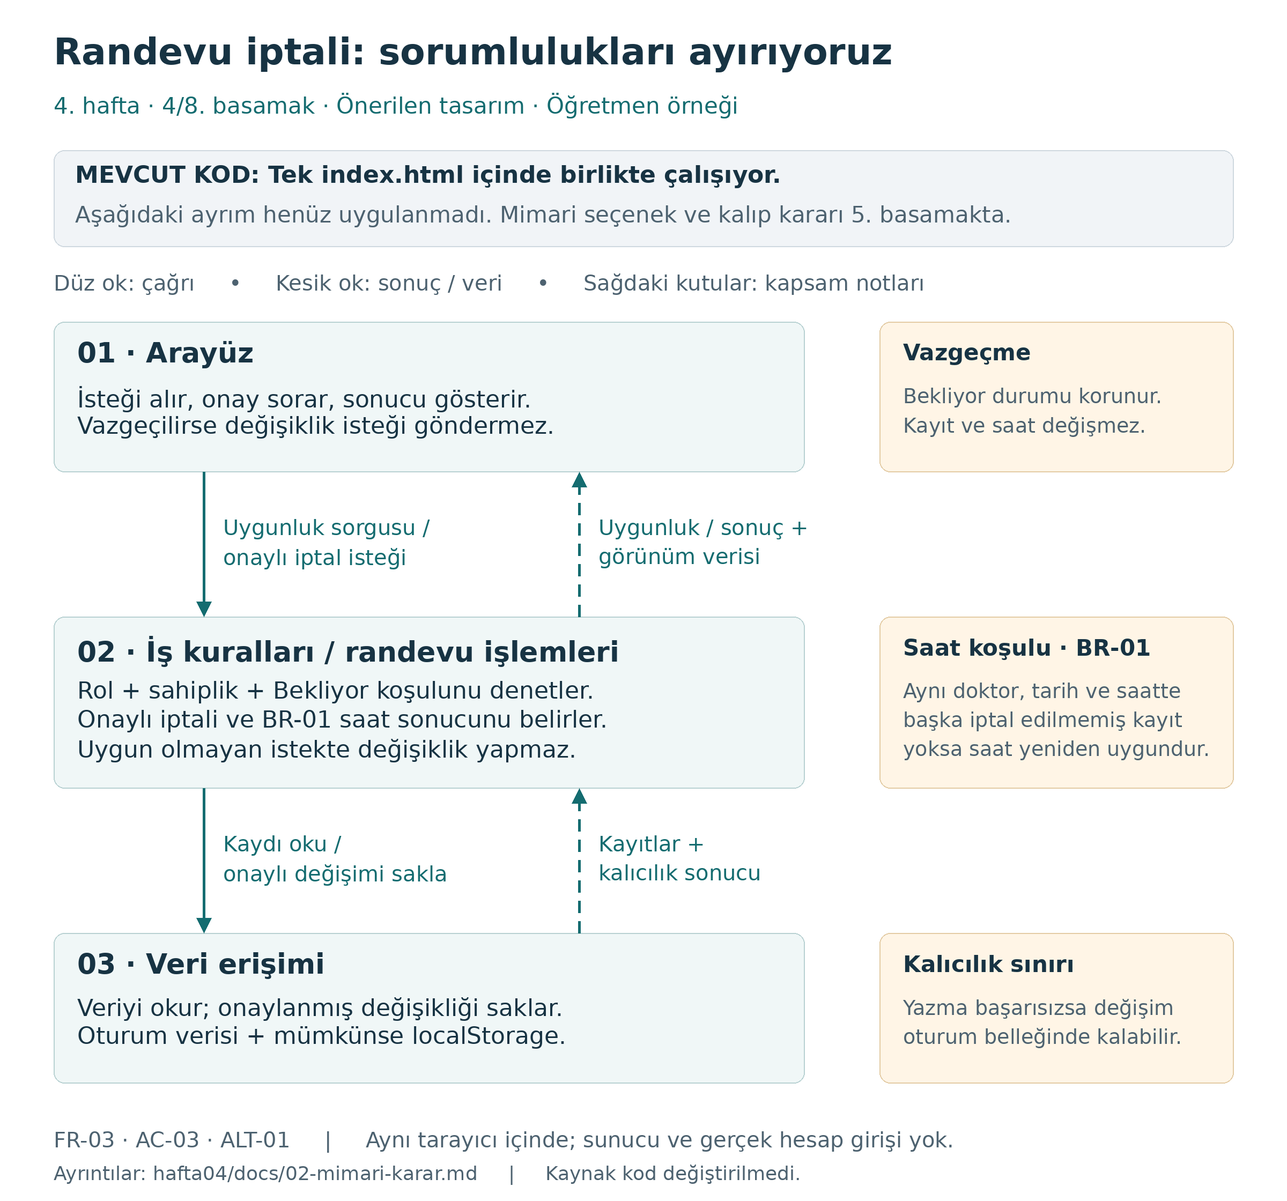
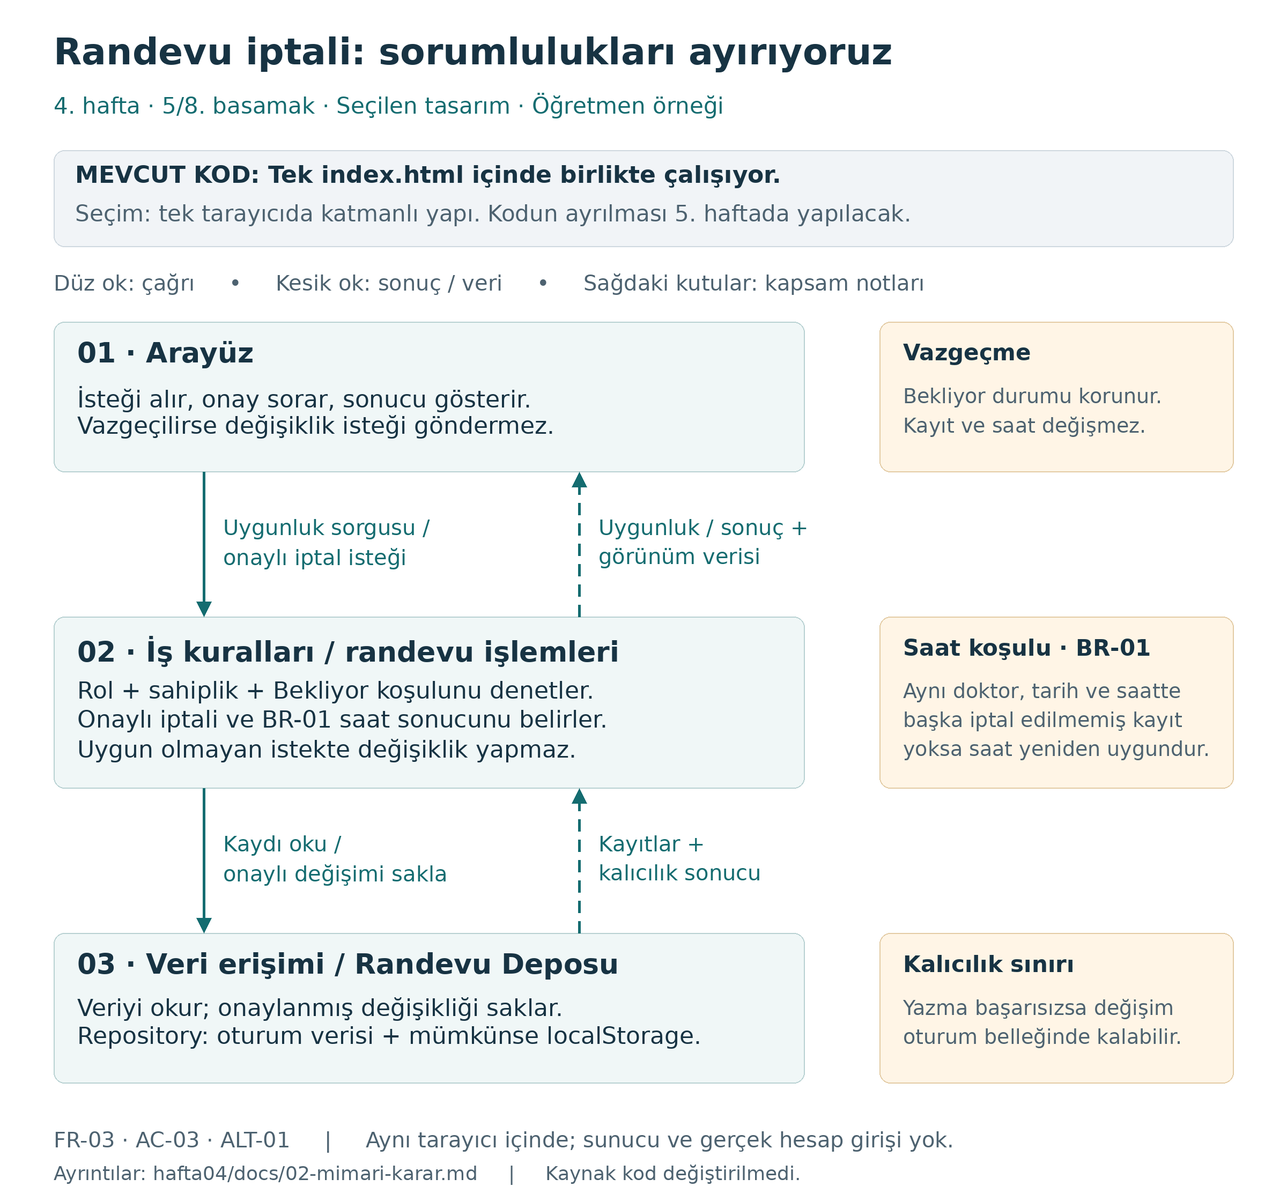
docs: choose H4 layered design and scoped appointment repository

diff --git a/hafta04/docs/02-mimari-karar.md b/hafta04/docs/02-mimari-karar.md
@@ -2,9 +2,9 @@
 
 Tarih: 1 Kasım 2026
 
-Durum: Dördüncü basamağın senaryo ve sorumluluk ayrımı öğretmen örneği olarak hazır.
-Beşinci basamağın mimari karşılaştırması ve tasarım kalıbı kararı henüz yapılmadı.
-Bağımsız ekip incelemesi bekliyor.
+Durum: Dördüncü ve beşinci basamakların öğretmen örneği hazır.
+Seçim: Tek tarayıcıda katmanlı/modüler yapı ve sınırlı bir Randevu Deposu
+(Repository) uyarlaması. Kodda uygulama ve bağımsız ekip incelemesi bekliyor.
 
 İncelenen uygulama: Üçüncü hafta sonu `index.html`,
 `da3ce51798344a6fafaee89cce42aa9aba90de17` commit'i.
@@ -35,11 +35,11 @@ içindedir. `cancelAppointment` kaydı bulur, `canCancel` ile koşulu denetler,
 son olarak `notify` ile mesaj verir. `saveData` da `renderStorage` çağırarak ekrana
 ulaşır. Dolayısıyla bugün üç bağımsız bileşen oluşturulmuş değildir.
 
-**Öneri:** Aynı tarayıcı uygulamasında üç sorumluluğun sınırını belirliyoruz.
+**Seçilen tasarım:** Aynı tarayıcı uygulamasında üç sorumluluğun sınırını belirliyoruz.
 Arayüz kullanıcıyla konuşacak; iş kuralları işlemin uygunluğunu ve sonucunu
 belirleyecek; veri erişimi okuma ve saklamayı yürütecek. Okların gösterdiği çağrı
-ve sonuçlar henüz uygulanmış bir API değildir. Mimari seçeneği beşinci basamakta,
-koda aktarımı beşinci haftada ele alacağız.
+ve sonuçlar henüz uygulanmış bir API değildir. Beşinci basamakta bu yapıyı
+seçtik; gerekçesi aşağıdadır. Koda aktarım beşinci haftanın çalışmasıdır.
 
 ## Sorumlulukların ayrılması
 
@@ -63,12 +63,13 @@ doğrulaması veya sunucu tarafında erişim güvenliği sağlamaz.
 | `validateData` | Veri erişiminde okuma kontrolü ve iş kuralları | Bugünkü işlev hem veri biçimini hem iptal edilmemiş çakışan kayıtları kontrol ediyor. Biçim kontrolü veri erişiminde; BR-01 denetimi ortak iş kuralında kalmalı. |
 
 İş kuralları için veri erişiminden gelen kayıt üzerinde değişiklik hazırlamak,
-reddedilen bir istekte paylaşılan kaydı yanlışlıkla değiştirmemelidir. Veri biçimi,
-işlev adları ve modül dosyaları bu çizimde kesinleştirilmedi.
+reddedilen bir istekte paylaşılan kaydı yanlışlıkla değiştirmemelidir. Beşinci
+basamakta seçilen erişim sözleşmesi aşağıda açıklanır; kesin dosya adları ve
+yükleme düzeni uygulama aşamasında belirlenecektir.
 
 ## Bileşen diyagramı ve okların anlamı
 
-![Önerilen sorumluluk ayrımı — randevu iptali](../diagrams/01-bilesen.png)
+![Seçilen tasarım — randevu iptalinde sorumluluk ayrımı](../diagrams/01-bilesen.png)
 
 [Düzenlenebilir çizim](../diagrams/01-bilesen.drawio) ·
 [Düzenleme ve kontrol notu](../diagrams/README.md)
@@ -117,25 +118,141 @@ Bu basamakta başarı mesajı veya uygulama kodu değiştirilmedi.
 
 ## İki mimari seçeneğin karşılaştırılması
 
-**Beşinci basamakta doldurulacak.** Aşağıdaki seçenekler henüz değerlendirilmedi.
+**Seçenek A — Mevcut tek dosya ve ortak durumla devam:** `index.html` içindeki
+`data`/`state` ve mevcut işlev bağlantıları korunur; yeni işler aynı düzene eklenir.
+Bu seçeneğin avantajı, küçük prototipi açmanın ve bütün kodu birlikte görmenin
+kolay olmasıdır. Her tek dosyalı programın kötü tasarlandığını söylemiyoruz;
+burada karşılaştırdığımız, bizim mevcut kodumuzdaki bağlantılardır.
 
-| Ölçüt | Seçenek A: [Adı] | Seçenek B: [Adı] |
+**Seçenek B — Katmanlı/modüler tek tarayıcı uygulaması:** Arayüz, randevu
+işlemleri/kuralları ve veri erişimi belirli işlevler üzerinden haberleşir.
+Katmanlar mantıksal sorumluluklardır; üçünün ayrı makinede çalışması gerekmez.
+Bu seçim aynı tarayıcıda çalışacak bir yapıdır. [K1, K3]
+
+| Ölçüt | Seçenek A: Mevcut düzen | Seçenek B: Sorumlulukları ayrılmış düzen |
 |---|---|---|
-| Sorumlulukların açıklığı | [Doldurulacak] | [Doldurulacak] |
-| Bir değişikliğin etkilediği yerler | [Doldurulacak] | [Doldurulacak] |
-| Test edilebilirlik | [Doldurulacak] | [Doldurulacak] |
-| Ek kod ve kavram yükü | [Doldurulacak] | [Doldurulacak] |
-| Mevcut küçük projeye uygunluk | [Doldurulacak] | [Doldurulacak] |
+| Sorumlulukların açıklığı | `cancelAppointment` onay, kural, durum değişimi, kaydetme ve gösterimi birlikte yürütüyor. | Onay/gösterim arayüzde; karar randevu işlemlerinde; saklama veri erişiminde. |
+| İptal açıklaması değişirse | `cancelAppointment` ve görünüm kodundaki metinler incelenir; bu sırada iş akışıyla aynı bölümde çalışılır. | Metin değişikliği arayüzde ele alınır; mevcut işlem sonuçlarının anlamı korunur. |
+| İptal koşulu değişirse | `canCancel` ve onu kullanan görünüm/işlem akışı birlikte kontrol edilir. | Koşul randevu işlemlerinde tek yerde değiştirilir; arayüz aynı uygunluk sonucunu kullanır. Kabul koşulları ve testler yine güncellenir. |
+| Kaydetme biçimi değişirse | `saveData`, paylaşılan `data` ve `renderStorage` bağlantısı birlikte incelenir. | Aynı erişim sözleşmesi korunabiliyorsa değişim veri erişiminde tutulabilir. Sözleşme değişirse diğer bileşenler de etkilenebilir. |
+| Test edilebilirlik | Dışarıya açılmamış işlevleri, ortak durumu ve ekran çağrılarını ayırmak ek düzenleme gerektiriyor. | Randevu işlemleri, örnek kayıt döndüren bir depo ile DOM ve localStorage olmadan sınanabilir. Tarayıcıdaki bütün akış ayrıca kontrol edilir. |
+| Ek kod ve kavram yükü | Yeni bir bağlantı düzeni gerektirmez; başlangıçta daha az hazırlık vardır. | Sözleşme, bileşenleri bağlayan başlangıç kodu ve veri kopyalama kuralları gerekir. |
+| Küçük ders projesine uygunluk | Kısa tanıtım ve ilk gözlem için yeterli; sorumluluk sınırlarını uygulayarak öğrenme hedefini sınırlıyor. | Mevcut iptal senaryosuyla sınırlandığında bakım ve kontrol sorumluluklarını görünür kılıyor. |
 
-## Karar ve tasarım kalıbı
+Bu tablo, kaynak kod üzerinden yaptığımız öğretmen değerlendirmesidir. B seçeneği
+için hız, hata azalması veya süre kazancı ölçmedik. Katmanlı düşünmenin genel
+modülerlik gerekçesi K1'de; tabloya özgü sonuçlar bu proje için yorumumuzdur.
 
-- Seçtiğimiz mimari ve gerekçesi: [Doldurulacak]
-- Değerlendirdiğimiz tasarım kalıbı: [Doldurulacak]
-- Bu örnekte çözmesini beklediğimiz somut sorun: [Doldurulacak]
-- Sağlayacağı yarar: [Doldurulacak]
-- Getireceği ek karmaşıklık: [Doldurulacak]
-- Kullanma / kullanmama kararı ve gerekçesi: [Doldurulacak]
-- Beşinci haftada koda aktarılacak sınırlar: [Doldurulacak]
+## Mimari karar ve gerekçesi
+
+**H4-MK-01: Seçenek B ile devam edeceğiz.** Mevcut davranışları koruyup iptal
+akışındaki sorumlulukları ayıracağız. Üç somut gerekçemiz var:
+
+1. Üçüncü hafta onay metnini değiştirirken durum değiştiren işlevin içinde
+   çalıştık. Metin ve karar sorumluluklarını ayırmak sonraki incelemeyi kolaylaştırır.
+2. `saveData` bugün `renderStorage` çağırıyor. Kaydetme sonucunu veri olarak
+   döndürmek, saklama kodunun ekranı tanımasına duyulan ihtiyacı kaldırır.
+3. FR-03 ve BR-01 kurallarını kontrollü örneklerle sınamak istiyoruz. İş kurallarını
+   tarayıcı ekranından bağımsız çağırabilmek bu hedefe uygundur.
+
+Ödediğimiz bedel, birkaç yeni işlev sınırı ve bunları bağlayan kodun anlaşılmasıdır.
+Aynı kodu üç dosyaya bölmek tek başına yeterli olmaz: arayüz doğrudan kayıt
+değiştirmemeli, veri erişimi ekran çizmemeli, iş kuralları onay penceresi açmamalıdır.
+
+Bu kararı geçersiz kılabilecek yeni koşullar; gerçek hesap girişi, ortak sunucu
+verisi veya eşzamanlı cihaz kullanımıdır. Böyle bir ihtiyaç doğarsa mimariyi
+ve güvenlik gereksinimlerini yeniden değerlendiririz. Bugünkü ayrımı yapmak,
+bu ihtiyaçları çözmüş olmak anlamına gelmez.
+
+## Tasarım kalıbı: Repository — Randevu Deposu
+
+**Kalıbın fikri:** Uygulama, saklama ayrıntılarına doğrudan ulaşmak yerine kayıtları
+bir koleksiyon gibi sunan erişim noktasıyla çalışır. Repository, veri erişimi
+kalıbıdır. Kaynaktaki kapsamlı nesne/veritabanı eşleme yapısını bu küçük derse
+taşımıyoruz; koleksiyon benzeri erişim sınırını uyarlıyoruz. [K2]
+
+Buradaki “depo”, randevu kayıtlarını bulan ve güncelleyen yazılım bileşenidir;
+GitHub'daki proje deposuyla karıştırılmamalıdır. Diyagramdaki üçüncü kutu bu
+sorumluluğu üstlenir; dördüncü bir katman eklemiyoruz.
+
+**Çözmek istediğimiz somut sorun:** İptal işlevi bugün `data.appointments` dizisine
+doğrudan erişiyor ve `saveData` çağırıyor. Randevu işlemlerine küçük bir depo
+nesnesi vererek kayıt arama ve saklama ayrıntılarını bu nesnenin içinde tutacağız.
+Gerçek kullanımda tarayıcı deposu, kontrollü denemede aynı işlemleri sağlayan
+bellek deposu kullanılabilir. Ayrı bir kütüphane veya sınıf hiyerarşisi gerekmiyor.
+
+### İptal senaryosu için planlanan küçük sözleşme
+
+Aşağıdaki adlar tasarım örneğidir; henüz çalışan kod değildir. Sözleşme bugünkü
+tek sayfalı, eşzamanlı tarayıcı akışı içindir.
+
+| İşlem | Beklenen sonuç | Sınır |
+|---|---|---|
+| `findById(id)` | Kaydın bağımsız kopyası veya bulunamadı sonucu. | Kopyayı değiştirmek saklanan kaydı kendiliğinden değiştirmez. |
+| `list()` | Randevu kayıtlarının bağımsız kopyaları. | Hasta/rol görünürlüğünü, BR-01 saat sonucunu ve toplamları iş kuralları hesaplar. |
+| `update(appointment)` | Var olan kaydı günceller; değişimin uygulanıp uygulanmadığını ve kalıcı mı yalnız bellekte mi olduğunu döndürür. | Yeni kayıt oluşturmaz, kayıt silmez, iptal yetkisine karar vermez. Bulunmayan kimlikte değişiklik yapmaz. |
+
+Başarılı bellek güncellemesi ile kalıcı yazma ayrı sonuçlardır. Kalıcı yazma
+başarısızsa mevcut uygulamadaki gibi bellek değişimi kalabilir; arayüz bunu
+saklama durumunda gösterir. `update` sonucunu yalnız “başarılı/başarısız” diye
+tek değere indirip bu ayrımı kaybetmeyeceğiz.
+
+`localStorage` anahtarı `ygs-klinik-randevu-demo-v1`, `schema: 1`, `nextId` ve mevcut
+randevu alanları korunacak. İptal güncellemesi `nextId` üretmez veya artırmaz.
+Mevcut kayıtların yalnız uygulama dosyalarını kopyalayarak başka konuma taşınmış
+sayılmaması gerektiği [başlangıç belgesinde](00-baslangic-ve-surum.md) açıklanır.
+
+| Değerlendirme | Bu projedeki karşılığı |
+|---|---|
+| Beklenen yarar | İptal işlevi kaydın nasıl saklandığını bilmeden kayıt bulabilir ve güncelleme isteyebilir. Aynı sözleşmeye uyan deneme deposu ile kontrollü sonuç üretilebilir. |
+| Ek maliyet | Üç erişim işlemi, kopya kayıtlar, saklama sonucu ve başlangıçta bileşenleri bağlayan kod hazırlanır. İşlem adları ve sonuçları tutarlı tutulur. |
+| Risk | Aynı anda hem depo hem doğrudan `data` erişimi kullanılırsa iki ayrı yazma yolu oluşur. Kalıp adı verilmesi bu sorunu kendiliğinden çözmez. |
+| Kullanma kararı | İptal akışı için sınırlı bir Repository uyarlaması kullanılacak. Somut yarar bağımsız kural kontrolüdür; bütün proje için genel amaçlı bir depo altyapısı kurulmayacak. |
+| Yeniden değerlendirme | Sözleşme yalnız çağrı aktarıp anlamlı bir sınır sağlamıyorsa sadeleştirilecek. Uzak sunucu, asenkron işlem veya yeni veri gereksinimi gelirse sözleşme yeniden ele alınacak. |
+
+Bu yararlar tasarım beklentisidir; yeni kod ve testlerle henüz doğrulanmadı.
+Kalıp kullanmak bir amaç değildir. Bu örnekte onu, iptal kuralı ile tarayıcıda
+saklama ayrıntısı arasında somut bir sınır oluşturduğu için seçiyoruz.
+
+## Beşinci haftada koda aktarılacak sınırlar
+
+| Alan | Uygulama sınırı | Kontrol edilecek sonuç |
+|---|---|---|
+| Arayüz | Olaylar, onay metni ve ekrana çizim burada kalır; randevu işlemlerinin sonucunu kullanır. | Onay, vazgeçme, liste, saat ve kaydetme bildirimi tutarlı görünür. |
+| Randevu işlemleri | Rol, sahiplik, durum geçişi ve BR-01 burada kalır; doğrudan DOM/localStorage erişimi olmaz. | Uygun olmayan istek kayıt değiştirmez; onaylı iptal kayıt silmez. |
+| Randevu Deposu | Okuma, kopya kayıt verme, güncelleme ve kalıcılık sonucu burada kalır; ekran çağrısı olmaz. | Reddedilen istekte yazma yapılmaz; yazma hatasının bellek/kalıcılık farkı görünür olur. |
+| Başlangıç ve eski veri | Veri erişimi okunabilir veri biçimini kontrol eder. Randevu işlemleri BR-01 bütünlüğünü denetler; başlangıç akışı geçersiz veride mevcut örnek veriye dönüş davranışını sürdürür. | Bir alt bileşen ekranı veya üst iş katmanını doğrudan çağırmaz; eski kayıt biçimi ve açılış mesajları korunur. |
+| Oluşturma ve tamamlama | İptal için aynı kayıtların ikinci bir kopyasını yöneten ayrı bir veri kaynağı oluşturulmaz. Diğer işlemler de aynı güncel veriyi görür. | İptal sonrası oluşturma/tamamlama eski veriyi yazıp değişikliği kaybettirmez. |
+
+Kesin dosya adları ve tarayıcıda yükleme yöntemi beşinci haftanın uygulama
+başlangıcında belirlenecek. Uygulamayı açma biçimi değişirse yönerge de
+güncellenecek. Bu basamakta yeni JavaScript dosyası veya yeni özellik eklenmedi.
+
+Koda aktarıldığında AC-03, ALT-01 ve H3 kabul koşulları yeniden kontrol edilecek;
+rol/sahiplik/durum reddi, yazma hatası ve diğer randevu işlemleriyle veri tutarlılığı
+ayrıca sınanacak. Bunlar yapılmış test sonucu değildir. Altıncı basamakta bu
+sınırları görev, süre ve bağımlılıklara dönüştüreceğiz.
+
+## Öğrencinin kararı anlatma örneği
+
+> Mevcut uygulamamızda iptal işlevi hem onay soruyor hem kaydı değiştiriyor hem
+> ekranı yeniliyor. Bu işleri üç sorumluluğa ayırmayı seçtik. Randevu Deposu
+> kaydı bulacak ve değişikliği saklayacak; kimin iptal edebileceğine iş kuralları
+> karar verecek. Böylece kuralları kontrollü verilerle inceleyebileceğiz. Bunun
+> karşılığında bileşenleri bağlayan ek kod yazacağız. Bu hafta kararı verdik;
+> uygulamayı henüz bu yapıya dönüştürmedik.
+
+Öğrenci kendi projesinden bir değişiklik seçip hangi bileşenlerin etkileneceğini
+anlatmalı; öğretmenin kararını gerekçesiz kopyalamamalıdır.
+
+## Kavram kaynakları
+
+Kaynaklar kavramları destekler; Klinik Randevu'ya ilişkin tercih ve sözleşme
+bu ders için oluşturduğumuz öğretmen yorumudur. Erişim: 1 Kasım 2026.
+
+- **K1:** Martin Fowler, [Presentation Domain Data Layering](https://martinfowler.com/bliki/PresentationDomainDataLayering.html). Sunum, iş mantığı ve veri erişimini ayırma; küçük programlarda modülerlik ve test sınırları.
+- **K2:** Edward Hieatt ve Rob Mee, [Repository — Patterns of Enterprise Application Architecture](https://martinfowler.com/eaaCatalog/repository.html). Koleksiyon benzeri veri erişim sınırı. Buradaki küçük uyarlama kaynağın tam altyapı örneği değildir.
+- **K3:** Microsoft Learn, [N-tier architecture style](https://learn.microsoft.com/en-us/azure/architecture/guide/architecture-styles/n-tier). Mantıksal katman ile fiziksel dağıtım katmanı ayrımı. Azure dağıtımı bu projenin kapsamına alınmadı.
 
 ## Kontrol
 
@@ -144,7 +261,10 @@ Bu basamakta başarı mesajı veya uygulama kodu değiştirilmedi.
 - [x] Mevcut tek dosya ile önerilen sorumluluk ayrımı ayrı belirtildi.
 - [x] `.drawio` XML yapısı ve bağlantı uçları okunarak kontrol edildi; PNG görsel olarak incelendi.
 - [ ] diagrams.net arayüzünde açma/düzenleme kontrolü ve yazardan farklı kişinin incelemesi.
-- [ ] Mimari seçeneklerin ve tasarım kalıbının yararı/maliyeti — beşinci basamak.
+- [x] İki mimari seçenek aynı ölçütlerle karşılaştırıldı; seçim gerekçelendirildi.
+- [x] Repository uyarlamasının sorunu, yararı, maliyeti ve kullanma kararı açıklandı.
+- [x] Beşinci hafta uygulama sınırları ve yapılacak kontroller belirtildi.
+- [ ] Seçilen tasarımın kodda uygulanması ve davranış kontrolleri — henüz yapılmadı.
 
 Hazırlık: Öğretmen için kaynak kod ve önceki belgelerden oluşturulmuş örnek.
 Bağımsız inceleyen / geri bildirim: Henüz yok; sekizinci basamakta kaydedilecek.

diff --git a/hafta04/README.md b/hafta04/README.md
@@ -1,6 +1,6 @@
 # 4. hafta — Mimari, tasarım kalıpları ve iş planlama
 
-Durum: Üçüncü basamağın yaklaşım seçimi ve dördüncü basamağın sorumluluk diyagramı öğretmen örneği olarak hazır. Beşinci–sekizinci basamaklar ve bağımsız inceleme bekliyor.
+Durum: İlk beş basamağın öğretmen hazırlığı hazır. Mimari seçim: tek tarayıcıda katmanlı/modüler yapı; veri erişiminde sınırlı Randevu Deposu (Repository) uyarlaması. Altıncı–sekizinci basamaklar, kodda uygulama ve bağımsız inceleme bekliyor.
 Hazırlık tarihi: 1 Kasım 2026
 Öğretmen çalışma dalı: `docs/h4-mimari-plan`
 
@@ -29,9 +29,9 @@ proje kökünde korunur. Bu haftanın belgeleri `hafta04/docs`, çizimleri
 
 ## Şimdi yapılacak işlem
 
-1. `diagrams/01-bilesen.png` çizimini ve `docs/02-mimari-karar.md` içindeki senaryo, sorumluluk ve kod eşleştirme tablolarını birlikte okuyun. Düzenlenebilir çizim `diagrams/01-bilesen.drawio` dosyasıdır.
+1. `docs/02-mimari-karar.md` içindeki iki seçenek karşılaştırmasını, H4-MK-01 kararını ve Repository değerlendirmesini okuyun. Güncel `diagrams/01-bilesen.png` / `.drawio` seçilen yapıyı gösterir; kod henüz bu yapıya dönüştürülmedi.
 2. Öğrenci grupları `sablonlar/01-yasam-dongusu-secimi.md` ve `sablonlar/02-mimari-karar.md` dosyalarını kendi `hafta04/docs` klasörlerine alıp kendi gerekçeleriyle doldurur; kendi diyagramlarını çizer. Öğretmenin sonuçları grup çalışması sayılmaz.
-3. Sıradaki beşinci basamakta iki mimari seçeneği karşılaştırıp bir tasarım kalıbını kullanma veya kullanmama kararını gerekçelendireceğiz. 02 belgesinin ilgili bölümleri bu nedenle henüz boş.
+3. Sıradaki altıncı basamakta `docs/03-is-plani-ve-riskler.md` içinde görevleri, tahmini süreleri, bağımlılıkları ve kritik yolu hazırlayacağız. Bu belge henüz boş çalışma şablonudur.
 
 `[Doldurulacak]` yazıları öğrenci/öğretmen çalışması için ayrılmış alanlardır.
 Şablonun var olması, içindeki görevin tamamlandığı anlamına gelmez.

diff --git a/hafta04/docs/00-baslangic-ve-surum.md b/hafta04/docs/00-baslangic-ve-surum.md
@@ -26,8 +26,9 @@ bilgilerini kullanır; kendi başlangıç ve katkı kayıtlarını yazar.
 - Dördüncü hafta çalışmaları hafta04 klasöründe yürütülür; önceki haftaların dosyaları korunur.
 - Üçüncü basamakta 01 belgesi öğretmen örneği olarak dolduruldu. Seçim: kısa geri bildirim döngüleriyle küçük artımlar halinde çevik çalışma. Boş öğrenci kopyası hafta04/sablonlar altında korunur.
 - Dördüncü basamakta randevu iptalinin arayüz, iş kuralları ve veri erişimi sorumlulukları ayrıldı. 02 belgesinin ilgili bölümleri, düzenlenebilir 01-bilesen.drawio ve aynı çizim verisinden üretilmiş PNG hazır. Boş 02 öğrenci şablonu hafta04/sablonlar altında korunur.
-- Çizim önerilen sorumluluk ayrımını gösterir; index.html henüz modüllere ayrılmadı. İki mimari seçeneğin karşılaştırılması ve tasarım kalıbı kararı beşinci basamakta; kritik yol ve güncel iş planı sonraki basamaklarda hazırlanacak.
-- İlk dört basamakta uygulamanın T01–T06 kontrolleri yeniden çalıştırılmadı. Dördüncü basamakta kaynak kod, belge ve çizim tutarlılığı kontrol edildi; bu işlem bağımsız ekip incelemesi veya davranış testi değildir.
+- Beşinci basamakta mevcut düzen ile katmanlı/modüler düzen karşılaştırıldı. H4-MK-01 ile tek tarayıcıda katmanlı yapı ve sınırlı Repository uyarlaması seçildi; yarar, maliyet ve beşinci hafta uygulama sınırları 02 belgesine yazıldı.
+- Çizim seçilen tasarımı gösterecek şekilde güncellendi. index.html henüz modüllere ayrılmadı. Kritik yol ve iş planı altıncı; değişiklik sonrası plan yedinci basamakta hazırlanacak.
+- İlk beş basamakta uygulamanın T01–T06 kontrolleri yeniden çalıştırılmadı. Kaynak kod, belge ve çizim tutarlılığı kontrol edildi; bu işlem bağımsız ekip incelemesi veya davranış testi değildir. Boş 01 ve 02 öğrenci şablonları korundu.
 
 ## 3. Önceki PR'larla bağlantı
 

diff --git a/hafta04/diagrams/README.md b/hafta04/diagrams/README.md
@@ -1,14 +1,15 @@
 # 4. haftanın diyagramları
 
-Dördüncü basamağın öğretmen örneği hazır:
+Dördüncü basamakta oluşturulan öğretmen çizimi, beşinci basamağın mimari kararıyla güncellendi:
 
 - [01-bilesen.drawio](01-bilesen.drawio): Düzenlenebilir kutu, metin ve bağlantılardan oluşan çizim.
 - [01-bilesen.png](01-bilesen.png): Aynı kutu, metin ve bağlantı verisinden üretilmiş görüntü.
 
-Çizim **randevu iptali için önerilen sorumluluk ayrımını** gösterir. Üstteki mevcut
+Çizim **randevu iptali için seçilen katmanlı/modüler tasarımı** gösterir. Üstteki mevcut
 durum notunda belirtildiği gibi uygulama hâlâ tek `index.html` içindedir. Üç
 sorumluluk ayrı sunucu veya ayrı uygulama anlamına gelmez. Bu basamakta kod
-modüllere ayrılmadı; mimari seçenek ve tasarım kalıbı kararı beşinci basamakta.
+modüllere ayrılmadı. H4-MK-01 kararıyla bu yapı seçildi; üçüncü kutu sınırlı
+Randevu Deposu (Repository) uyarlamasını temsil eder. Uygulama beşinci haftada.
 
 Düz çizgili ok çağrıyı, kesik çizgili ok sonucu/veriyi gösterir. Oklar ağ isteği
 anlamına gelmez. Aynı tarayıcı içindeki önerilen iletişimi anlatır; sağdaki notlar
